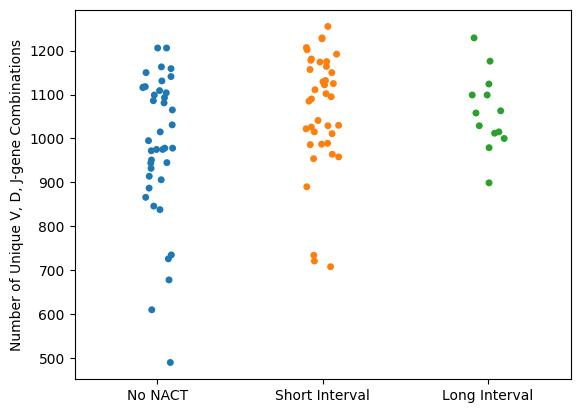
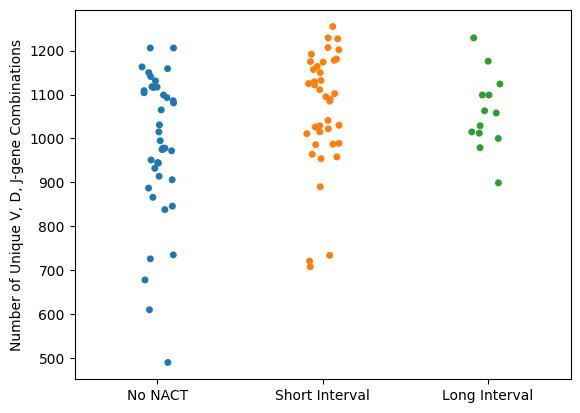
Last changes to main.py and README

diff --git a/main.py b/main.py
@@ -11,7 +11,7 @@ def main():
     Main file in driver script from which all code is run
     """
     # Determine whether to load precalculated data or calculate
-    load_precalculated = True
+    load_precalculated = False
     
     saved_df_path = os.path.join('data', 'processed', 'precalculated.tsv')
     if not load_precalculated:

diff --git a/README.md b/README.md
@@ -42,15 +42,17 @@ From the data listed above, populate ./data/raw/ with the sequencing files for e
 	|__ tables/					
 	|__ supp_fig/				
 ```
-'src' contains all scripts for generating results, which include scripts for cleaning data (data/), scripts for analyzing this cleaned data (analysis/), scripts for visualizing results (visualization/), and commonly reused scripts and helper functions (util/). In the data/ folder in the parent directory, raw data are stored in raw/ which contains all ImmunoSEQ formatted repertoires. Processed datasets and any intermediates are stored in processed/, and preprocessed data that are directly used for plotting are stored in analysis/. Exploratory notebooks are stored in the notebook/ directory in the parent directory. In the fig/ directory, there are three subdirectories used to store main figures, tables, and supplemental figures. The figure I generated for pset 4 is in `./fig/main_fig/unique_vdjgenes.jpg`
-![Alt text](fig/main_fig/unique_vdj_genes.jpg?raw=true "Title")
+'src' contains all scripts for generating results, which include scripts for cleaning data (data/), scripts for analyzing this cleaned data (analysis/), scripts for visualizing results (visualization/), and commonly reused scripts and helper functions (util/). In the data/ folder in the parent directory, raw data are stored in raw/ which contains all ImmunoSEQ formatted repertoires. Processed datasets and any intermediates are stored in processed/, and preprocessed data that are directly used for plotting are stored in analysis/. Exploratory notebooks are stored in the notebook/ directory in the parent directory. In the fig/ directory, there are three subdirectories used to store main figures, tables, and supplemental figures.
 
 # Installation
 
-The driver file for the analysis in this pipeline is titled "driver.sh". The entire pipeline can be ran from `main.py`:
+The entire pipeline for analysis and visualization can be run from `main.py`:
 ```
 $ python main.py
 ```
+This will perform all calculations and save plots to the appropriate folders. For example, the figure I generated for pset 4 is in `./fig/main_fig/unique_vdjgenes.jpg`.
+![Alt text](fig/main_fig/unique_vdj_genes.jpg?raw=true "Title")
+
 Note that in the main function of main.py, there is a setting to toggle whether saved data generated previously (stored in `./data/processed/`) should be used to create plots, or whether data should be generated and saved from scratch. Toggle this by changing the `load_precalculated` variable.
 
 Python package dependencies can be found in "requirements.txt". To intialize a virtual enviroment with these dependencies:
